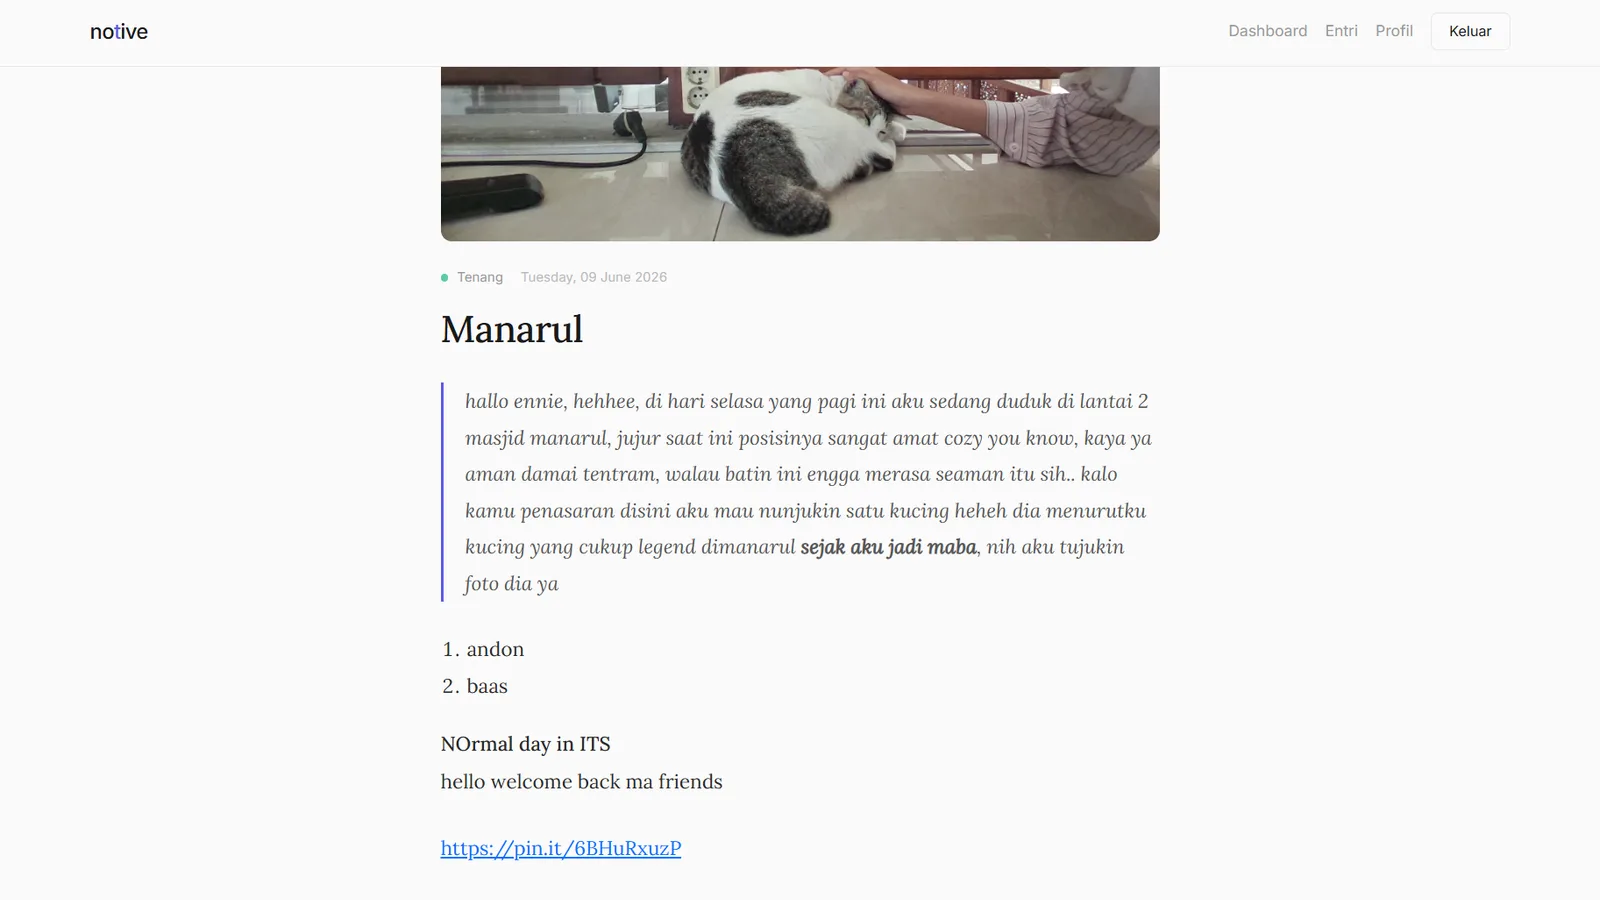
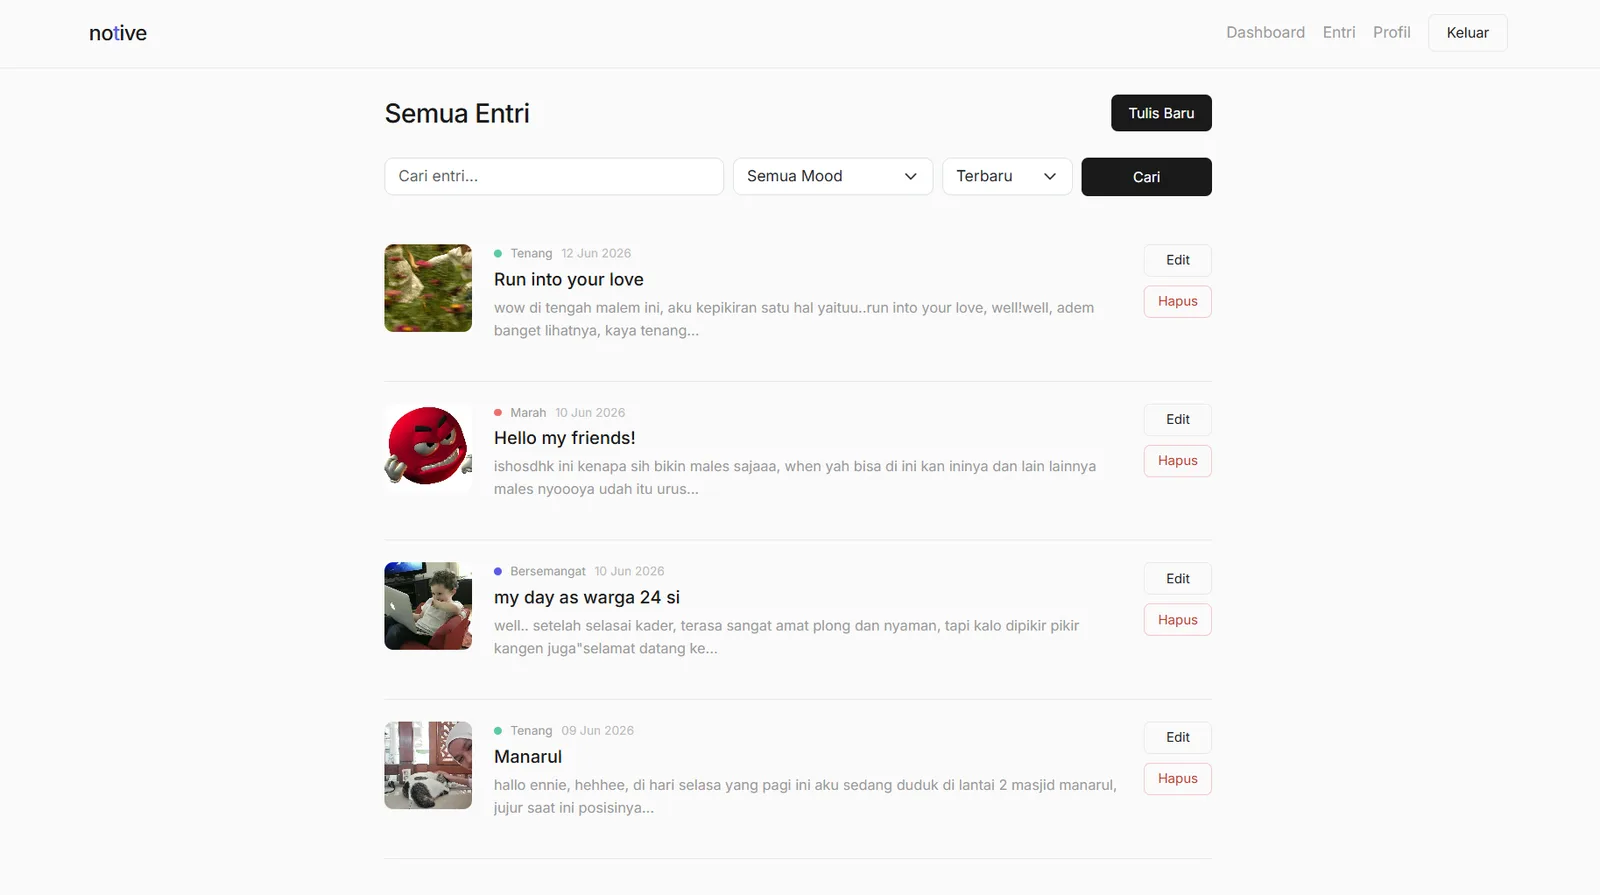
Fix: remap Notive screenshots (dashboard/entries/entry detail) and ER diagram spacing

diff --git a/index.html b/index.html
@@ -1138,12 +1138,12 @@
             </div>
             <p class="note"><i class="bi bi-info-circle"></i> Mood options: Tenang, Senang, Bersemangat, Lelah, Sedih, Marah.</p>
             <figure class="figure zoomable">
-              <img src="assets/img/notive-entries.webp" alt="Notive entries list with search, mood and tag filters" width="1600" height="900" loading="lazy" />
+              <img src="assets/img/notive-entries.webp" alt="Notive entries list with search, mood and tag filters" width="1600" height="895" loading="lazy" />
               <figcaption class="figcap">Entries list: search, filter by mood, tag, or date, sort, paginate. Click to enlarge.</figcaption>
             </figure>
             <figure class="figure zoomable">
-              <img src="assets/img/notive-create.webp" alt="Notive create entry form with Quill rich-text editor and mood selector" width="1600" height="895" loading="lazy" />
-              <figcaption class="figcap">Create entry: Quill rich-text editor, mood selector, tags, optional photo. Click to enlarge.</figcaption>
+              <img src="assets/img/notive-entry.webp" alt="A single Notive entry showing rich-text content, mood and tags" width="1600" height="900" loading="lazy" />
+              <figcaption class="figcap">An entry: rich-text content, mood, tags, and an optional photo. Click to enlarge.</figcaption>
             </figure>
           </section>
 
@@ -1164,27 +1164,27 @@
                   <text x="95" y="125" class="dg-label" text-anchor="middle">users</text>
                   <text x="95" y="145" class="dg-sub" text-anchor="middle">id · name · email</text>
 
-                  <rect x="230" y="60" width="200" height="140" rx="12" class="dg-box dg-silver"/>
-                  <text x="330" y="95" class="dg-label" text-anchor="middle">entries</text>
-                  <text x="330" y="115" class="dg-sub" text-anchor="middle">id · user_id (FK)</text>
-                  <text x="330" y="132" class="dg-sub" text-anchor="middle">title · content · mood</text>
-                  <text x="330" y="149" class="dg-sub" text-anchor="middle">photo · is_favorite</text>
-                  <text x="330" y="166" class="dg-sub" text-anchor="middle">word_count · timestamps</text>
+                  <rect x="250" y="60" width="200" height="140" rx="12" class="dg-box dg-silver"/>
+                  <text x="350" y="95" class="dg-label" text-anchor="middle">entries</text>
+                  <text x="350" y="115" class="dg-sub" text-anchor="middle">id · user_id (FK)</text>
+                  <text x="350" y="132" class="dg-sub" text-anchor="middle">title · content · mood</text>
+                  <text x="350" y="149" class="dg-sub" text-anchor="middle">photo · is_favorite</text>
+                  <text x="350" y="166" class="dg-sub" text-anchor="middle">word_count · timestamps</text>
 
-                  <rect x="490" y="90" width="150" height="80" rx="12" class="dg-box dg-gold"/>
-                  <text x="565" y="125" class="dg-label" text-anchor="middle">entry_tag</text>
-                  <text x="565" y="145" class="dg-sub" text-anchor="middle">entry_id · tag_id (PK)</text>
+                  <rect x="510" y="90" width="150" height="80" rx="12" class="dg-box dg-gold"/>
+                  <text x="585" y="125" class="dg-label" text-anchor="middle">entry_tag</text>
+                  <text x="585" y="145" class="dg-sub" text-anchor="middle">entry_id · tag_id (PK)</text>
 
-                  <rect x="700" y="90" width="150" height="80" rx="12" class="dg-box dg-src"/>
-                  <text x="775" y="125" class="dg-label" text-anchor="middle">tags</text>
-                  <text x="775" y="145" class="dg-sub" text-anchor="middle">id · name (unique)</text>
+                  <rect x="720" y="90" width="150" height="80" rx="12" class="dg-box dg-src"/>
+                  <text x="795" y="125" class="dg-label" text-anchor="middle">tags</text>
+                  <text x="795" y="145" class="dg-sub" text-anchor="middle">id · name (unique)</text>
 
-                  <path class="dg-line flow" d="M170 130 H230"/>
-                  <text x="200" y="122" class="dg-sub" text-anchor="middle">1:N cascade</text>
-                  <path class="dg-line flow" d="M430 130 H490"/>
-                  <text x="460" y="122" class="dg-sub" text-anchor="middle">N:M</text>
-                  <path class="dg-line flow" d="M640 130 H700"/>
-                  <text x="670" y="122" class="dg-sub" text-anchor="middle">N:M</text>
+                  <path class="dg-line flow" d="M170 130 H250"/>
+                  <text x="210" y="118" class="dg-sub" text-anchor="middle">1:N cascade</text>
+                  <path class="dg-line flow" d="M450 130 H510"/>
+                  <text x="480" y="118" class="dg-sub" text-anchor="middle">N:M</text>
+                  <path class="dg-line flow" d="M660 130 H720"/>
+                  <text x="690" y="118" class="dg-sub" text-anchor="middle">N:M</text>
                 </svg>
               </div>
             </figure>
